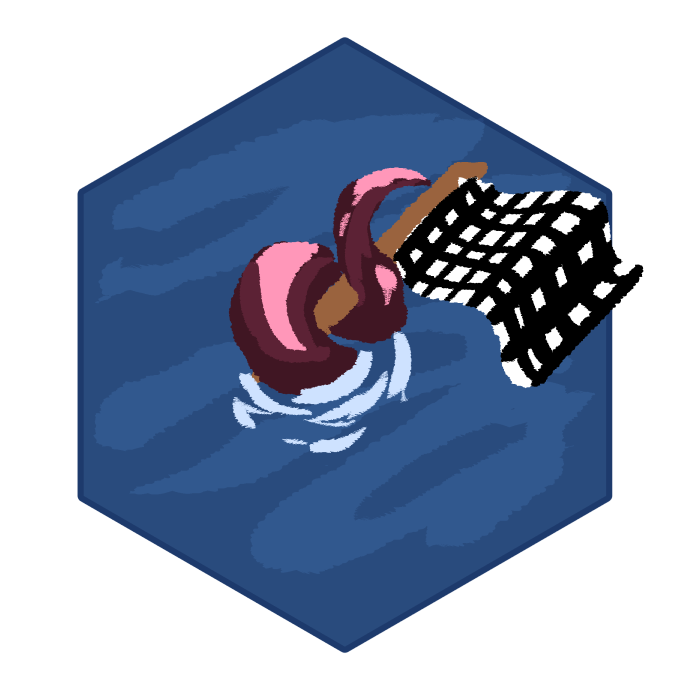
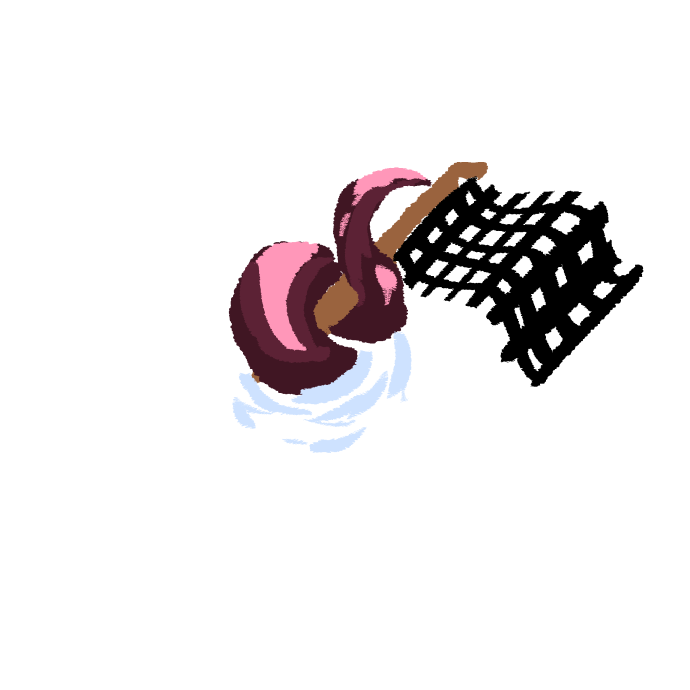
fix(mq): update current graphics and display of goal flag

diff --git a/src/main/kotlin/sc/gui/view/MississippiBoard.kt b/src/main/kotlin/sc/gui/view/MississippiBoard.kt
@@ -22,6 +22,7 @@ import sc.gui.AppStyle
 import sc.gui.controller.HumanMoveAction
 import sc.gui.model.GameModel
 import sc.plugin2024.*
+import sc.plugin2024.Field
 import sc.plugin2024.actions.Accelerate
 import sc.plugin2024.actions.Advance
 import sc.plugin2024.actions.Push
@@ -107,10 +108,9 @@ class MississippiBoard: View() {
             logger.trace("Available Pushes: {}", pushes)
             
             state.board.forEachField { cubeCoordinates, field ->
-                // TODO overlay current indicator and goal flag
                 (state.board.getFieldCurrentDirection(cubeCoordinates)?.let { dir ->
                     createPiece("stream").also { it.rotate = dir.angle.toDouble() }
-                } ?: createPiece(field.toString().lowercase())).also { piece ->
+                } ?: createPiece((if(field == Field.GOAL) Field.WATER else field).toString().lowercase())).also { piece ->
                     if(field.isEmpty) {
                         piece.viewOrder++
                         val push = pushes.firstOrNull { state.currentShip.position + it.direction.vector == cubeCoordinates }
@@ -121,6 +121,9 @@ class MississippiBoard: View() {
                         }
                     }
                     addPiece(piece, cubeCoordinates)
+                }
+                if(field == Field.GOAL) {
+                    addPiece(createPiece(field.toString().lowercase()), cubeCoordinates)
                 }
             }
             state.ships.forEach { ship ->
@@ -222,15 +225,13 @@ class MississippiBoard: View() {
         val newState = state.clone()
         val ship = newState.currentShip
         val extraMovement = ship.maxAcc
-        val currentAdvance = humanMove.lastOrNull() is Advance && action is Advance && state.isCurrentShipOnCurrent()
+        val currentAdvance = humanMove.lastOrNull() is Advance && action is Advance && state.isCurrentShipOnCurrent() && state.board.doesFieldHaveCurrent(state.currentShip.position + state.currentShip.direction.vector * action.distance)
         if(currentAdvance)
             ship.movement++
         ship.movement += extraMovement
         action.perform(newState)?.let {
             alert(Alert.AlertType.ERROR, it.message)
         } ?: run {
-            if(currentAdvance && !newState.isCurrentShipOnCurrent())
-                ship.movement--
             ship.movement -= extraMovement
             humanMove.add(action)
             gameModel.gameState.set(newState)
